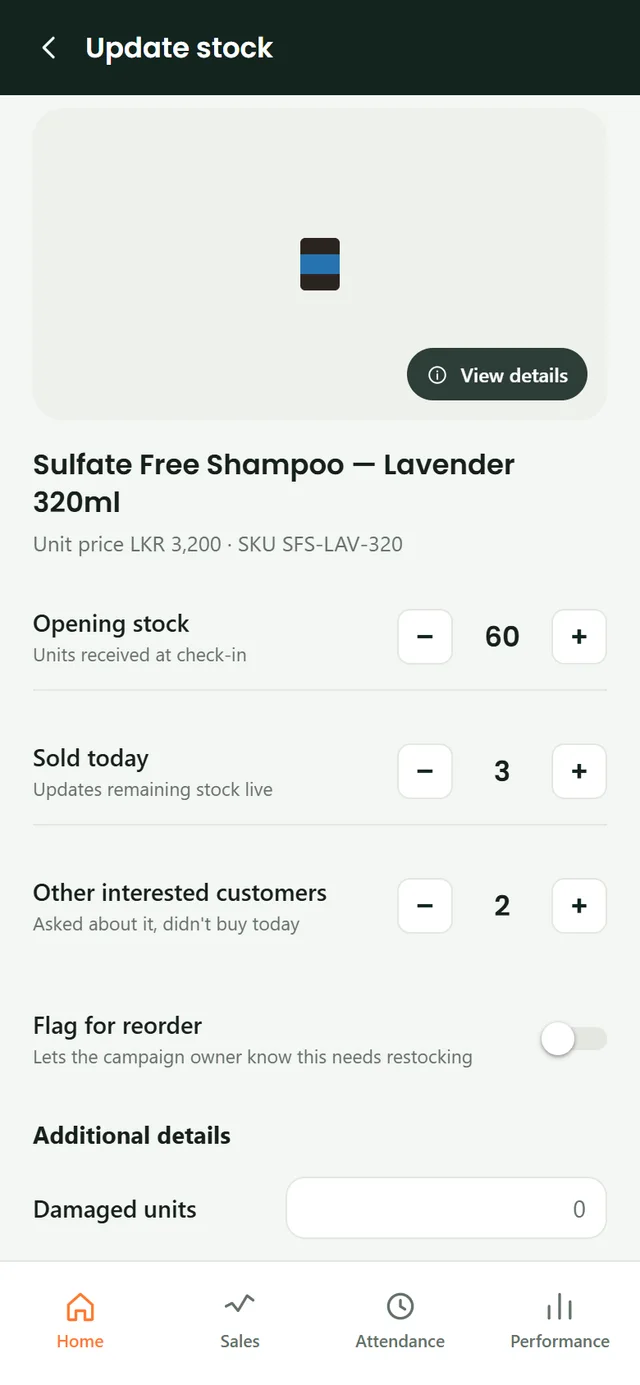
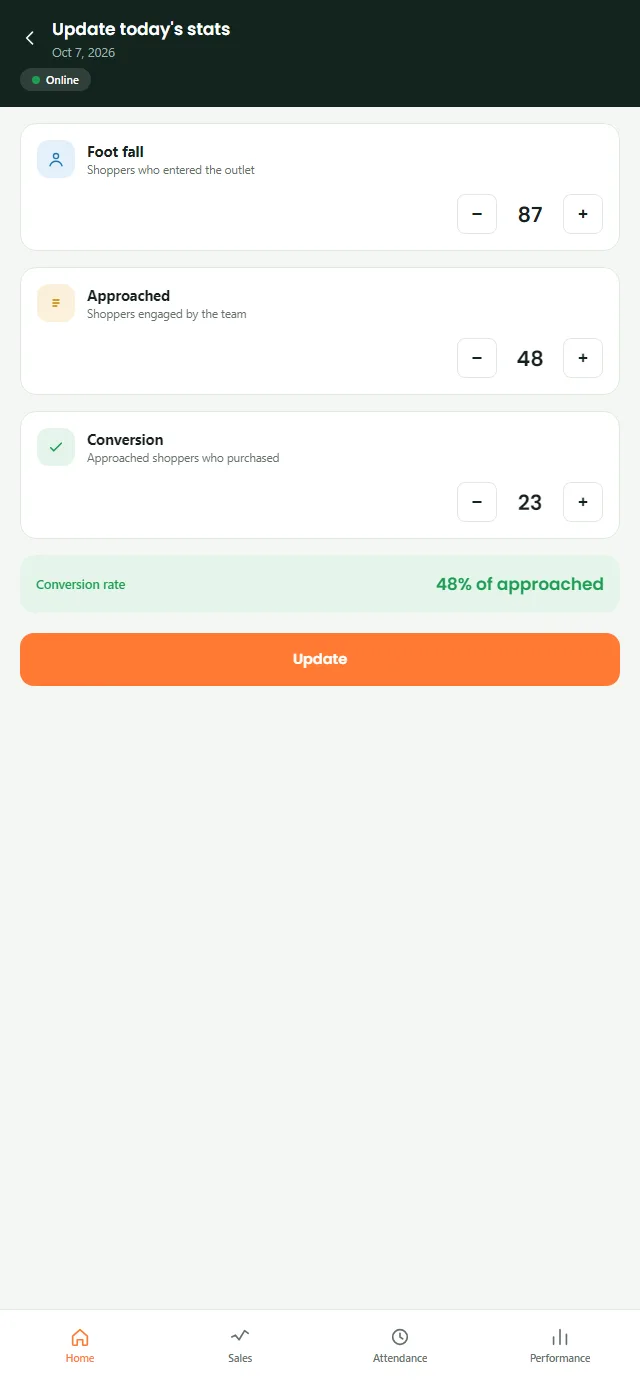
[marketing] Training guide polish: seed-hour warning, stats wording, fullPage capture option, re-shot stats screen

diff --git a/marketing/training/capture/mobile.js b/marketing/training/capture/mobile.js
@@ -1,8 +1,8 @@
 // Re-shoot CB Mobile training screenshots against a locally running Expo web
 // build + backend, seeded with the "Radiance Q3 Push" demo campaign.
-// See README.md. Read-only screens only (Performance, Sales) — this script
-// deliberately does not drive check-in/check-out or edit stock, since those
-// mutate the demo data every run.
+// See README.md. Read-only screens only (Performance, Sales, Today's stats) —
+// this script deliberately does not drive check-in/check-out, edit stock or
+// save a stats update, since those mutate the demo data every run.
 //
 // Usage:
 //   node mobile.js
@@ -18,6 +18,21 @@ const PROMOTER = { phone: process.env.PROMOTER_PHONE || '0762223344', password: 
 const SHOTS = [
   { tab: 'Performance', outfile: 'assets/mobile-promoter/07-performance.webp' },
   { tab: 'Sales', outfile: 'assets/mobile-promoter/05-sales-summary.webp' },
+  // "Update today's stats" hangs off Home's stats tile, not a tab, so it needs
+  // an `open` recipe. Shot at the original 2026-09 batch's 640x1385 device
+  // viewport rather than full-page, so it matches the rest of the promoter
+  // assets and keeps the bottom tab bar pinned where the other shots have it.
+  // Still read-only: it opens the screen but never taps Update.
+  {
+    outfile: 'assets/mobile-promoter/06-stats-update.webp',
+    viewport: { width: 640, height: 1385 },
+    fullPage: false,
+    open: async (page) => {
+      await page.getByText('Home', { exact: true }).last().click();
+      await page.getByText('Foot fall', { exact: true }).first().click();
+      await page.getByText("Update today's stats").waitFor({ timeout: 20_000 });
+    },
+  },
 ];
 
 async function login(page) {
@@ -38,9 +53,11 @@ async function run() {
   await login(page);
 
   for (const shot of shots) {
-    await page.getByText(shot.tab, { exact: true }).last().click();
+    await page.setViewportSize(shot.viewport ?? VIEWPORT);
+    if (shot.open) await shot.open(page);
+    else await page.getByText(shot.tab, { exact: true }).last().click();
     await page.waitForTimeout(600);
-    await shootToWebp(page, shot.outfile);
+    await shootToWebp(page, shot.outfile, { fullPage: shot.fullPage ?? true });
   }
 
   await context.close();

diff --git a/marketing/training/promoter.html b/marketing/training/promoter.html
@@ -145,10 +145,10 @@
           <li>
             <div class="step-text">
               <p>Set the three counts to the totals so far (not what has changed since last time):</p>
-              <p><b>Foot fall</b>, people who passed your stand. <b>Approached</b>, people you spoke to. <b>Converted</b>, people who bought. The conversion rate updates as you go.</p>
+              <p><b>Foot fall</b>, people who passed your stand. <b>Approached</b>, people you spoke to. <b>Conversion</b>, people who bought. The conversion rate updates as you go.</p>
               <div class="tip"><b>Not checked in yet?</b> The counts stay locked until you check in for your shift (task 02) — check in first and they unlock.</div>
             </div>
-            <figure class="phone"><img src="assets/mobile-promoter/06-stats-update.webp" alt="Stats update screen with steppers for foot fall, approached and converted and a live conversion rate" /></figure>
+            <figure class="phone"><img src="assets/mobile-promoter/06-stats-update.webp" alt="Update today's stats screen with steppers for foot fall, approached and conversion, and a live conversion rate" /></figure>
           </li>
         </ol>
       </div>

diff --git a/marketing/training/capture/lib/webp.js b/marketing/training/capture/lib/webp.js
@@ -9,8 +9,12 @@ const TRAINING_DIR = path.resolve(path.dirname(fileURLToPath(import.meta.url)), 
 // `outfile`, given relative to marketing/training/ (e.g.
 // "assets/portal-admin/12-staff-attendance.webp") — the repo's single source
 // for these assets, see MAINTENANCE.md.
-export async function shootToWebp(target, outfile) {
-  const buffer = await target.screenshot({ fullPage: true, type: 'png' });
+//
+// `fullPage` defaults to true (grow the shot to the whole scrollable page).
+// Pass `{ fullPage: false }` for a screen whose shot should be exactly the
+// viewport — e.g. a phone screen with a pinned bottom tab bar.
+export async function shootToWebp(target, outfile, { fullPage = true } = {}) {
+  const buffer = await target.screenshot({ fullPage, type: 'png' });
   const outPath = path.join(TRAINING_DIR, outfile);
   await mkdir(path.dirname(outPath), { recursive: true });
   await sharp(buffer).webp({ quality: 82 }).toFile(outPath);

diff --git a/marketing/training/MAINTENANCE.md b/marketing/training/MAINTENANCE.md
@@ -81,6 +81,15 @@ needed unless the step text changed.
    cd campaign-buddy-backend && npm run prisma:seed && npx ts-node prisma/demo-seed.ts
    ```
    (builds the "Radiance Q3 Push" sample campaign — a week of activity)
+
+   > **Don't re-seed between 00:00 and 05:30 Colombo.** `demo-seed.ts`'s `D()`
+   > keys its rows by the **UTC** calendar date, while the backend resolves an
+   > implicit "today" on the **Colombo** one (`src/utils/dates.ts`). In that
+   > 5.5-hour window the two disagree, so the seed's "today" lands on yesterday
+   > and every app screen shows a promoter who is not checked in, with zeros
+   > everywhere — which is not the state these screenshots are meant to show.
+   > Seed at any other hour, or shoot against a dataset seeded earlier.
+
 2. Run the portal (`campaign-buddy-portal`, `npm run dev`) or the app
    (`campaign-buddy-app`, `npm run start -- --web`) and sign in as the role.
    Logins are printed to the terminal by the seed scripts; if you don't have

diff --git a/marketing/training/capture/README.md b/marketing/training/capture/README.md
@@ -43,9 +43,10 @@ same as `campaign-buddy-portal/e2e/support/auth.ts` and
 the matching `../assets/<role>/*.webp` — swap-in-place, same as a manual
 re-shoot.
 
-`mobile.js` deliberately only visits read-only tabs (Performance, Sales). It
-does not drive check-in/check-out or edit stock, because those mutate the
-demo data on every run.
+`mobile.js` deliberately only visits read-only screens (Performance, Sales,
+and Today's stats, which it opens but never saves). It does not drive
+check-in/check-out or edit stock, because those mutate the demo data on every
+run.
 
 ## Adding a new shot
 
